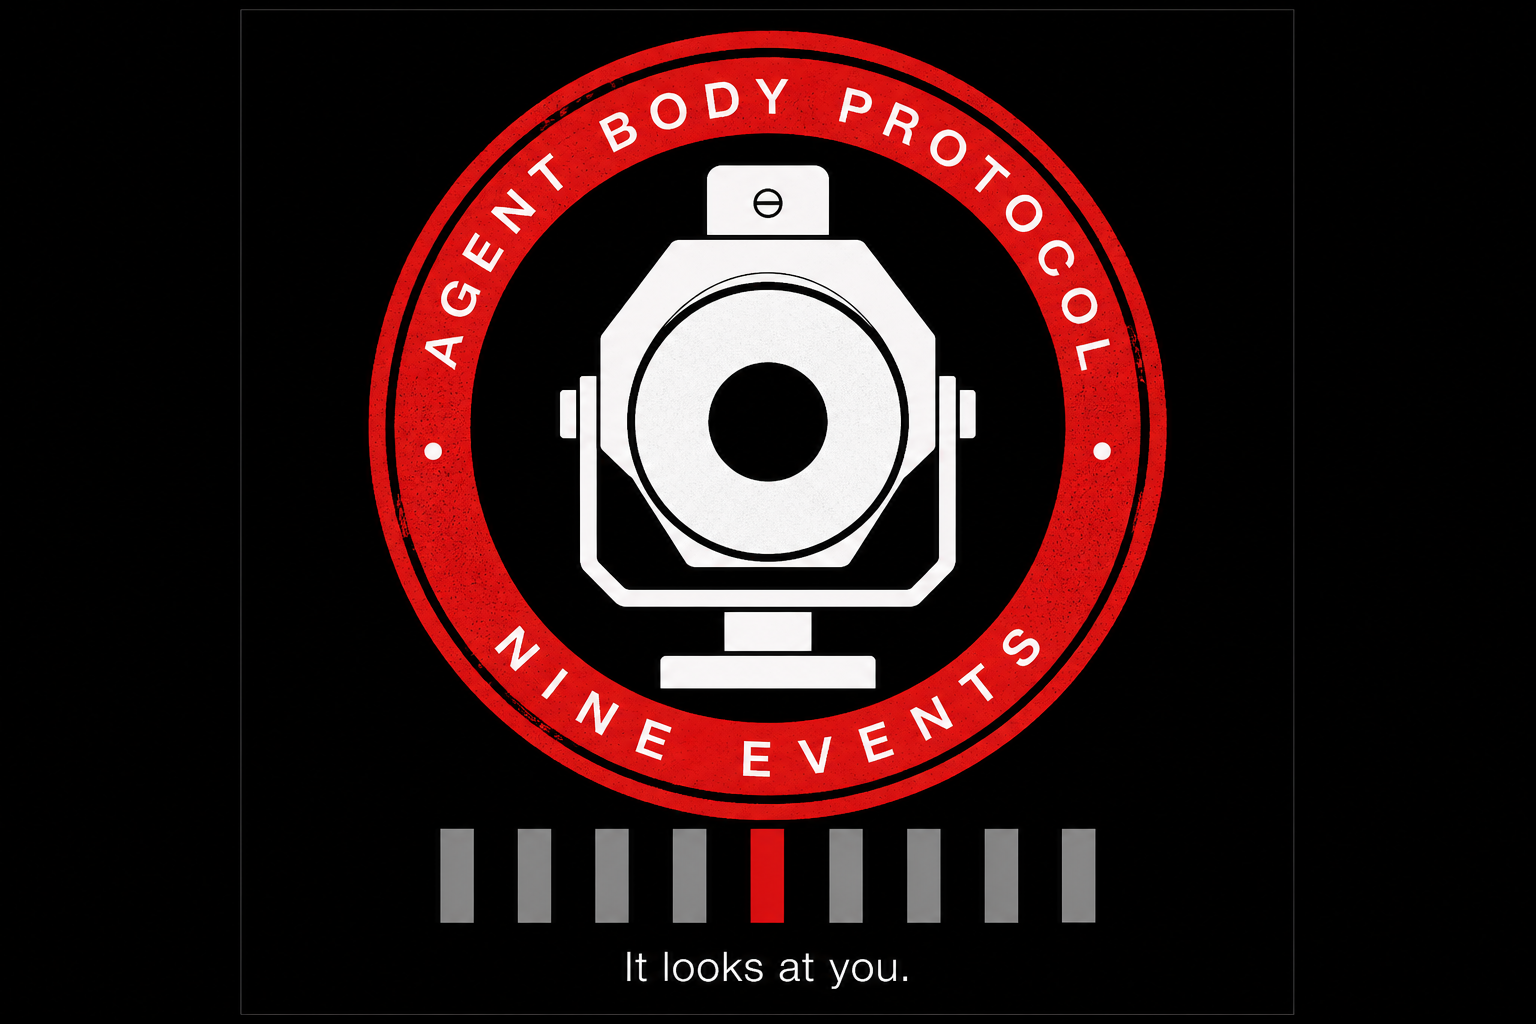
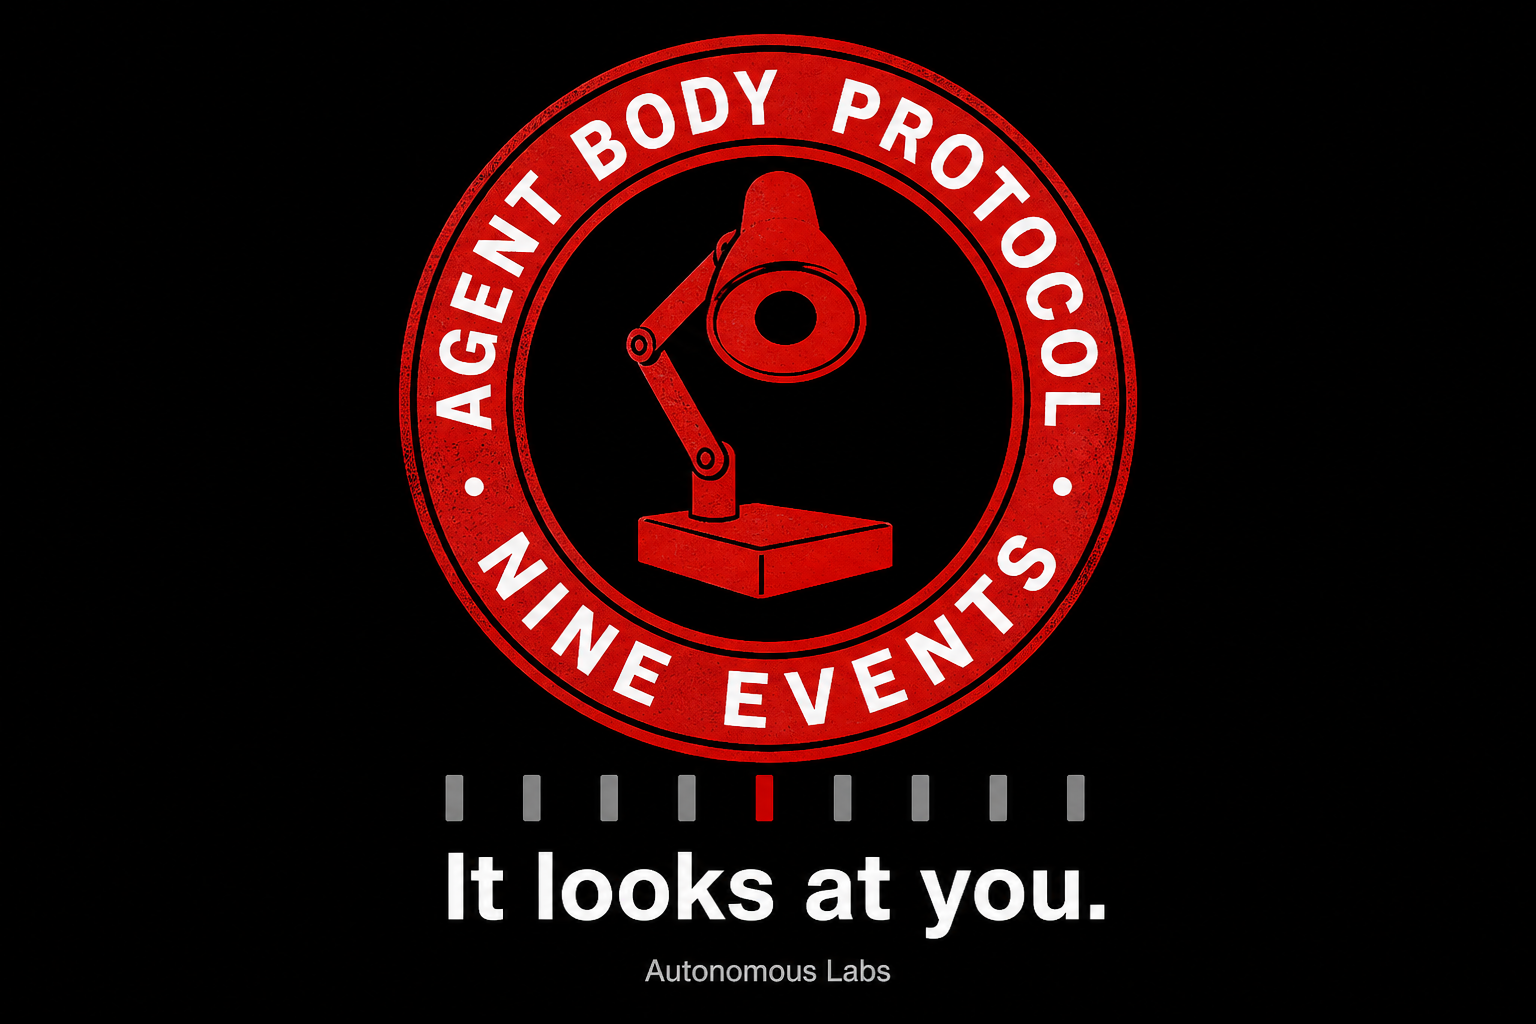
Replace brand marks with the Autonomous Labs lamp.
Four red/black/gray/white sheets: sequencer, hanko, ofuda, hinomaru.

Changed region(s): [[0.2188, 0.0312, 0.7812, 0.9375], [0.4062, 0.9375, 0.5938, 0.9688]]

diff --git a/README.md b/README.md
@@ -90,11 +90,15 @@ Companion extension for the Autonomous Labs / Autonomous OS hackathon (Autonomou
 
 ## Marks
 
-Red, black, gray, white. Fun marks, not the packet. Not official Teenage Engineering.
+Red, black, gray, white. Autonomous Labs lamp. Fun marks, not the packet.
+
+<img src="docs/brand/sequencer.png" alt="Agent Body Protocol sequencer sheet" width="640">
 
 <img src="docs/brand/hanko.png" alt="It looks at you." width="400">
 
 <img src="docs/brand/ofuda.png" alt="It hops. Then it looks at you." width="400">
+
+<img src="docs/brand/hinomaru.png" alt="Software talks to a body." width="640">
 
 ## The contract
 
@@ -207,6 +211,6 @@ Old VO `docs/demo/old/abp-story.mp4` and `docs/demo/old/story-vo.txt` stay in th
 - `docs/SIM-TO-REAL.md` — API replay, not Isaac
 - `docs/POWER.md` — voltage telemetry, battery/Qi path, table proof via `scripts/demo_power.sh`
 - `docs/GIST.md` — idea file; public gist is the same, not the room script
-- `docs/brand/` — hanko seal and ofuda hop. Fun marks, not the lamp packet.
+- `docs/brand/` — sequencer, hanko, ofuda, hinomaru marks. Fun, not the lamp packet.
 
 MIT licensed.

diff --git a/docs/brand/README.md b/docs/brand/README.md
@@ -1,8 +1,10 @@
 # Marks
 
-Red / black / gray / white. Instrument chrome mixed with Japanese hanko and ofuda.
+Red / black / gray / white. Autonomous Labs lamp.
 
+- `sequencer.png` — catalog sheet. Software talks to a body.
 - `hanko.png` — seal. It looks at you.
 - `ofuda.png` — hop card. It hops. Then it looks at you.
+- `hinomaru.png` — poster. Nine events in. Body language out.
 
-Not official Teenage Engineering. No Pocket Operator or TP-7 marks.
+Not the demo packet. The packet stills live in `docs/demo/posters/`.
